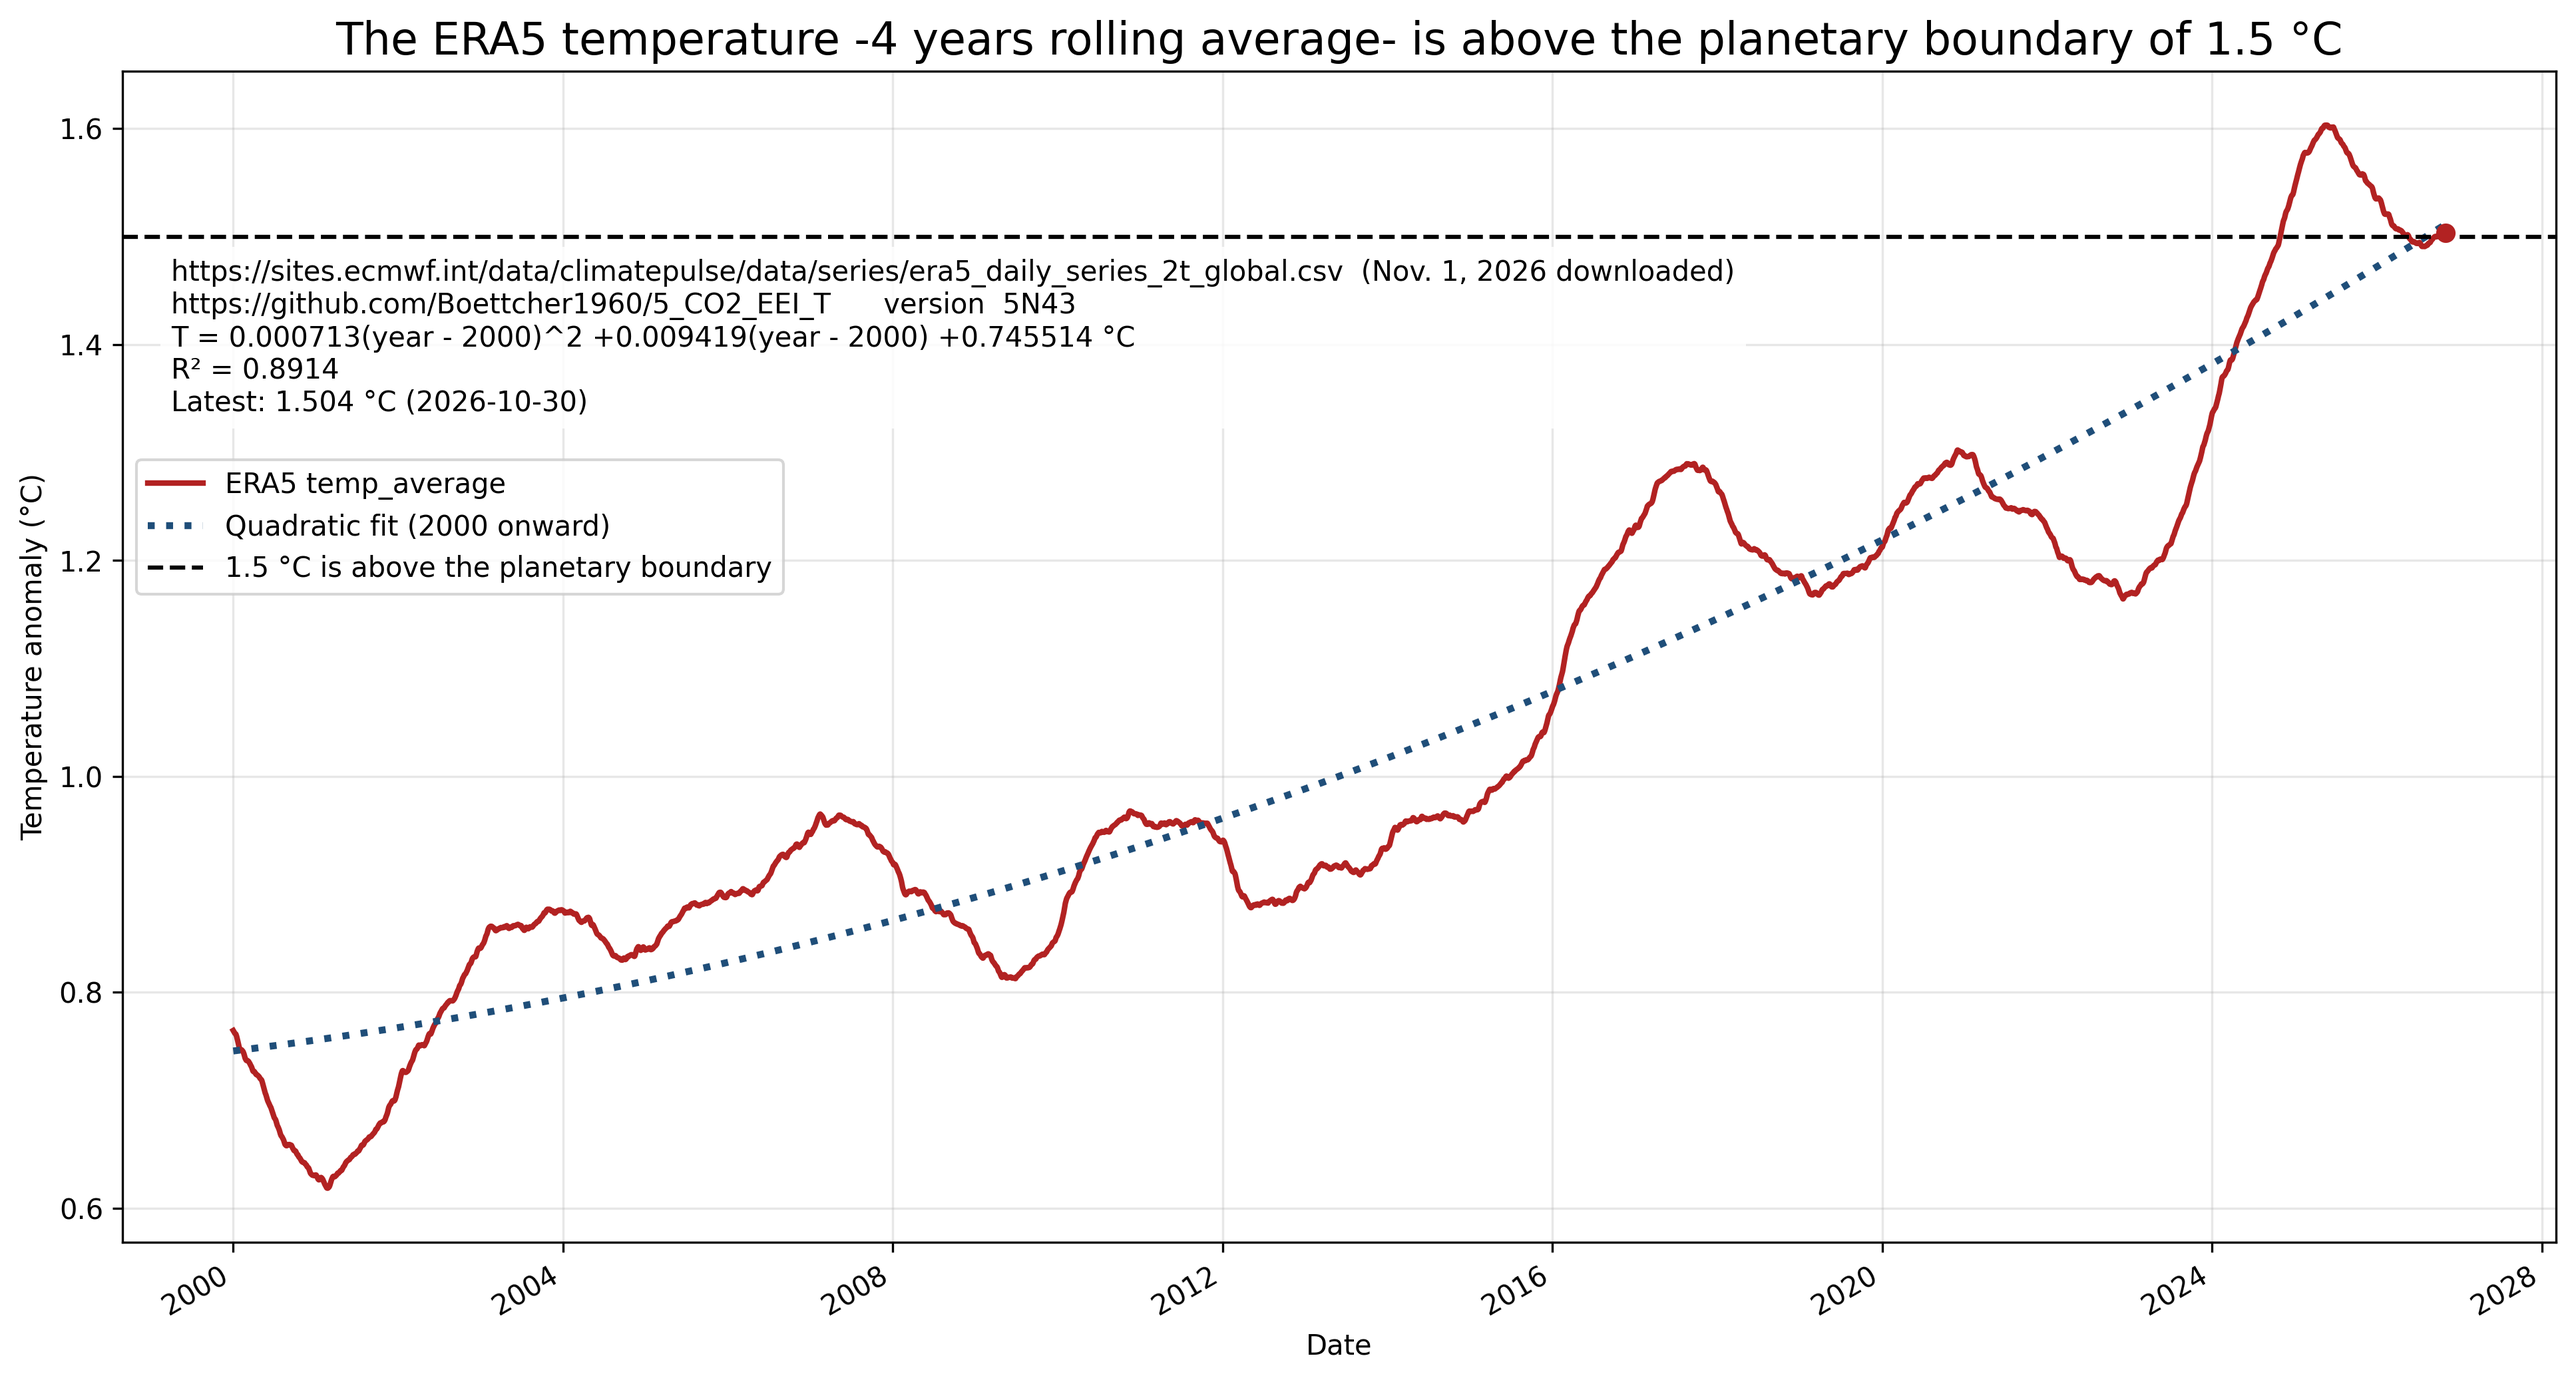
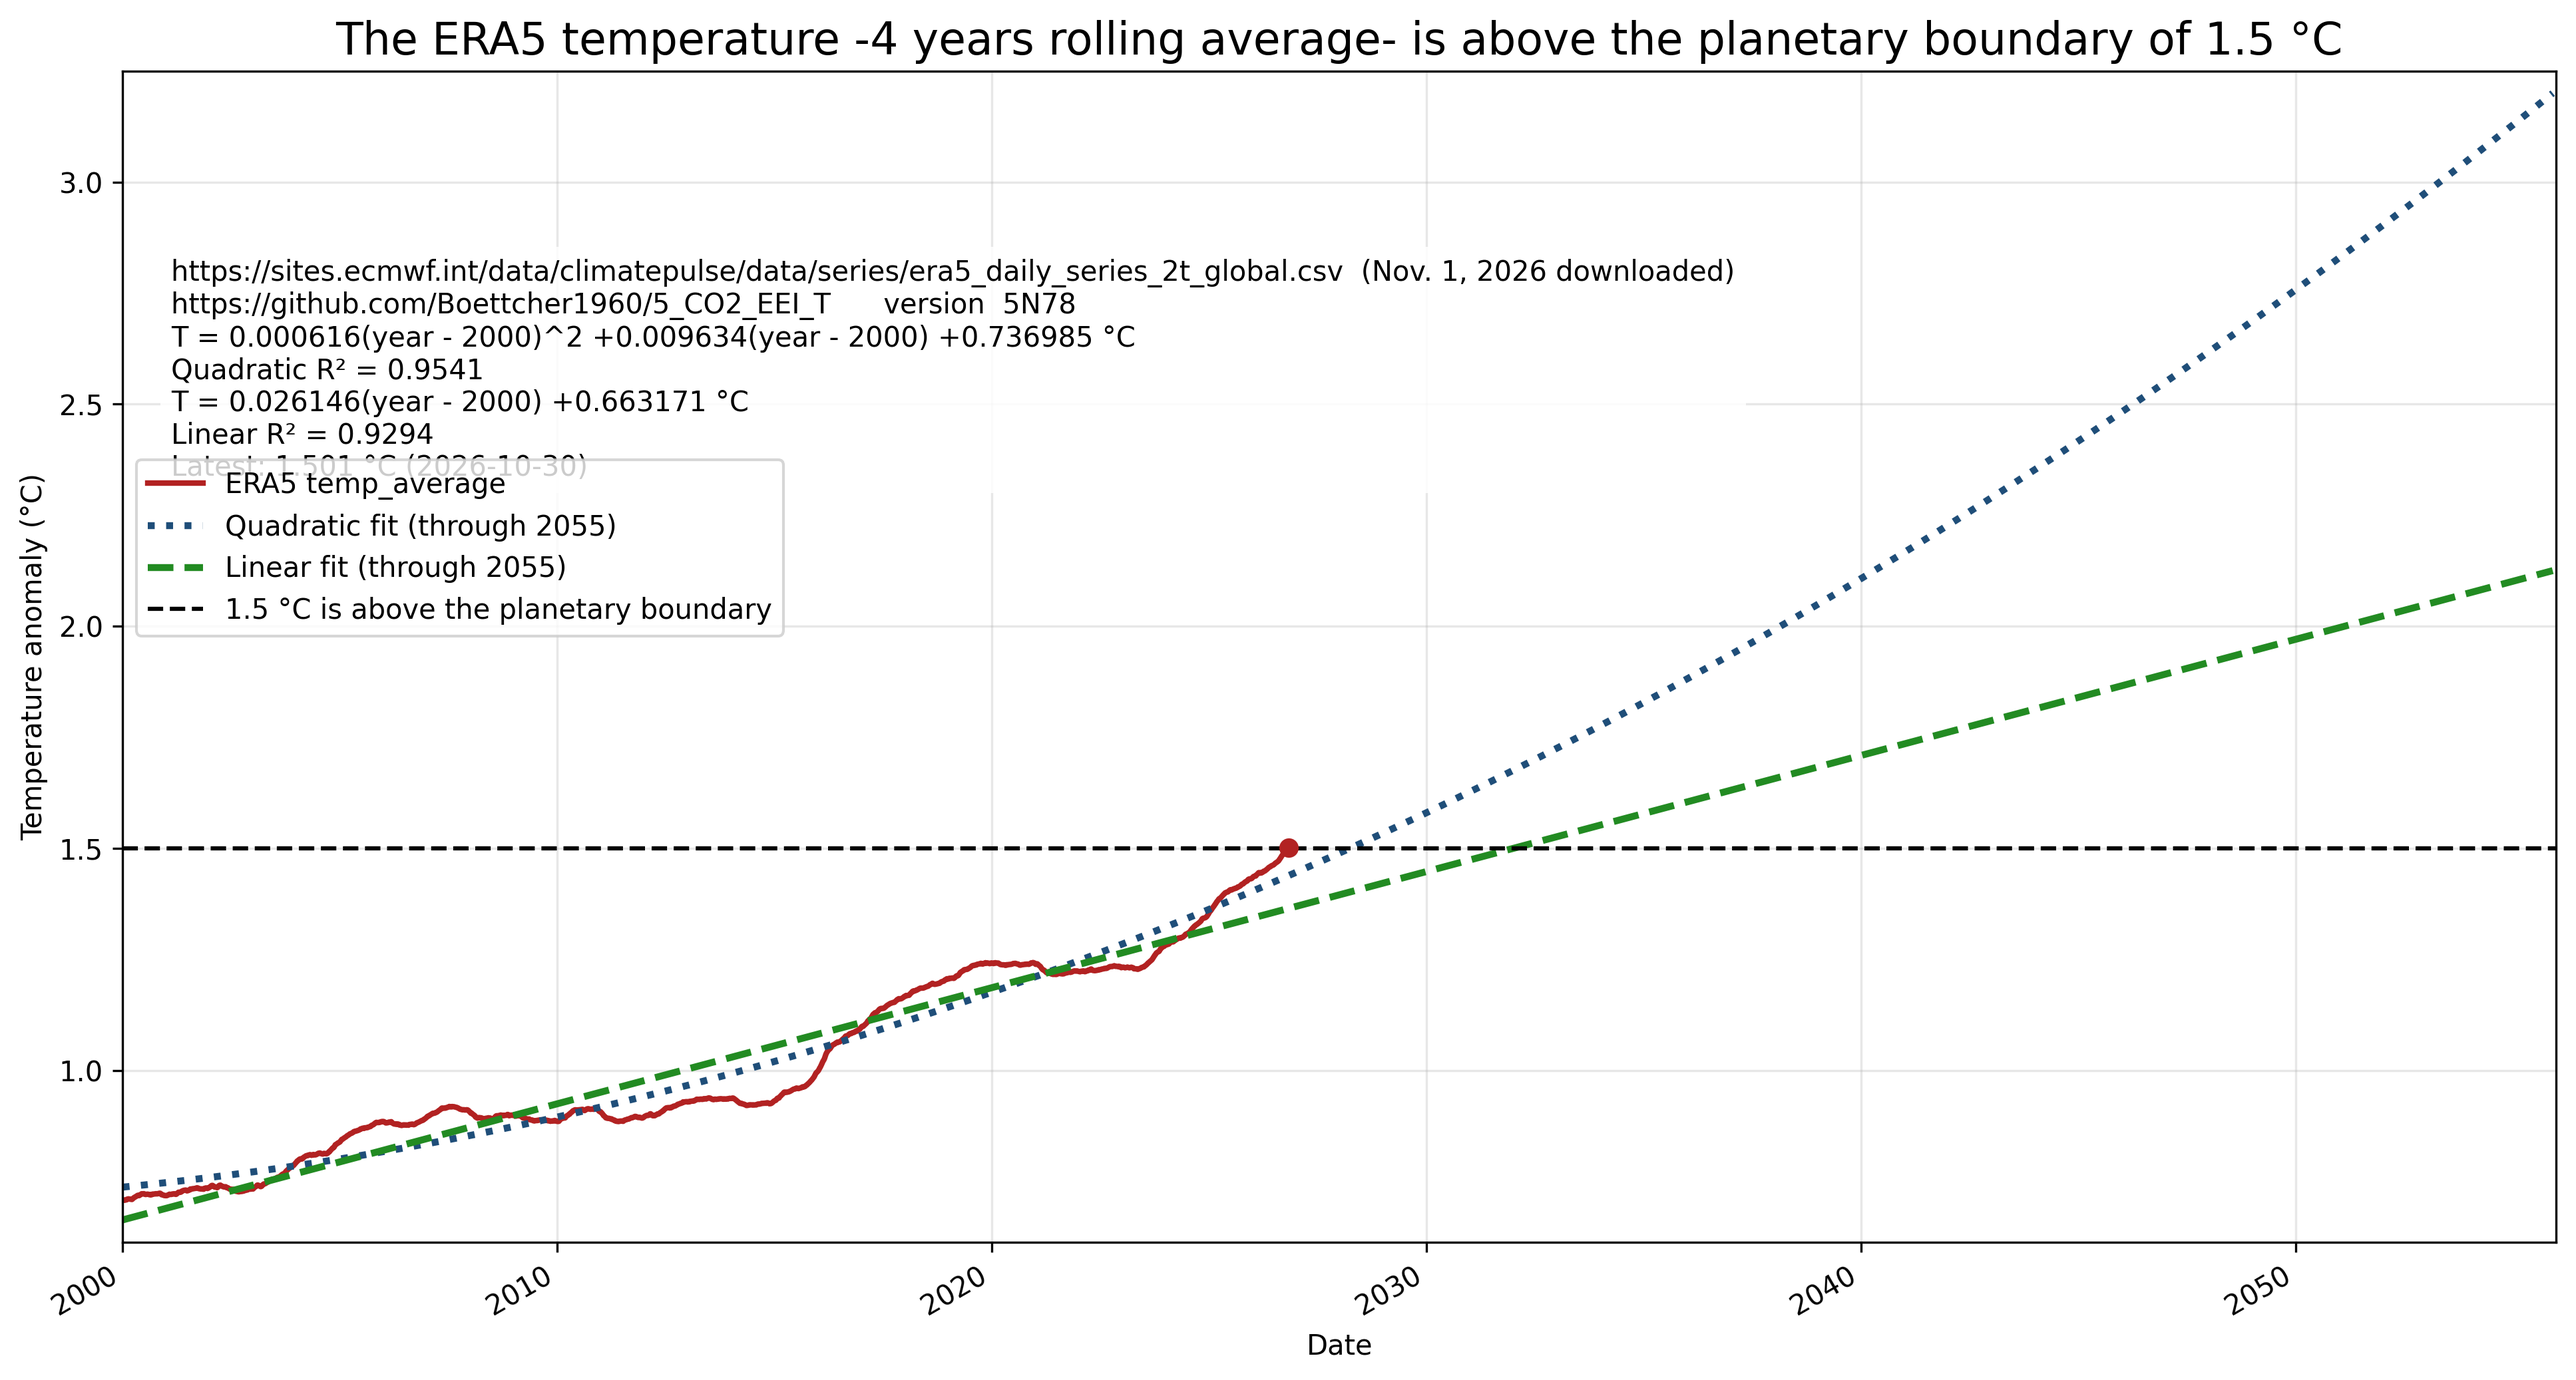
5N78" #fig_202_era5_temp_quadratic()

diff --git a/ceres.py b/ceres.py
@@ -505,7 +505,7 @@ def convert_ceres_to_csv(input_file, output_file):
 
 # 200.2 ceres.py line 422 fig_202_era5_temp_quadratic
 def fig_202_era5_temp_quadratic():
-    """Plot the ERA5 running mean and its post-2000 quadratic trend."""
+    """Plot ERA5 temperature averages with linear and quadratic trends to 2055."""
     # input_path = "work/_48_era5_in.csv"
     input_path = "work/_68_out.csv"
     output_path = "work/_48_era5_temp_average.png"
@@ -528,39 +528,54 @@ def fig_202_era5_temp_quadratic():
     data = data.dropna(subset=["date", "temp_average"]).sort_values("date")
     if data.empty:
         raise ValueError(f"{input_path} has no valid date/temp_average rows")
-    # 200.9 filter data for plotting and ensure enough points for quadratic fit
+    # 200.9 Filter data for fitting and plotting and ensure enough points for both fits.
     plot_data = data.loc[data["date"] >= "2000-01-01"].copy()
     if len(plot_data) < 3:
-        raise ValueError("At least three valid observations since 2000 are required for a quadratic fit")
+        raise ValueError("At least three valid observations since 2000 are required for the fits")
     # 200.10 calculate decimal year for quadratic fitting
     plot_data["decimal_year"] = (
         plot_data["date"].dt.year
         + (plot_data["date"].dt.dayofyear - 1)
         / np.where(plot_data["date"].dt.is_leap_year, 366, 365)
     )
-    # 200.11 perform quadratic fit and calculate R²
+    # 200.11 Fit quadratic and linear trends to the observed post-2000 data.
     x = plot_data["decimal_year"] - 2000
-    # 200.12 fit a quadratic polynomial to the data
     coefficients = np.polyfit(x, plot_data["temp_average"], 2)
-    # 200.13 evaluate the polynomial at the x values to get the trend
     trend = np.polyval(coefficients, x)
-    # 200.14 calculate R² to assess the fit quality
+    linear_coefficients = np.polyfit(x, plot_data["temp_average"], 1)
+    linear_trend = np.polyval(linear_coefficients, x)
+
+    # 200.12 Calculate R² for both fits using the same observed values.
     residual_sum_squares = np.sum((plot_data["temp_average"] - trend) ** 2)
-    # 200.15 calculate total sum of squares for R² calculation
+    linear_residual_sum_squares = np.sum(
+        (plot_data["temp_average"] - linear_trend) ** 2
+    )
     total_sum_squares = np.sum(
         (plot_data["temp_average"] - plot_data["temp_average"].mean()) ** 2
     )
-    # 200.16 calculate R² value
-    r_squared = 1 - residual_sum_squares / total_sum_squares
-    # 200.17 add the quadratic fit to the plot_data DataFrame for plotting
-    plot_data["quadratic_fit"] = trend
-    # 200.18 create the plot
+    if total_sum_squares > 0:
+        r_squared = 1 - residual_sum_squares / total_sum_squares
+        linear_r_squared = 1 - linear_residual_sum_squares / total_sum_squares
+    else:
+        r_squared = linear_r_squared = float("nan")
+
+    # 200.13 Evaluate both fitted curves monthly through the requested final year.
+    x_end = 2055
+    forecast_dates = pd.date_range("2000-01-01", f"{x_end}-12-01", freq="MS")
+    forecast_decimal_year = (
+        forecast_dates.year
+        + (forecast_dates.dayofyear - 1)
+        / np.where(forecast_dates.is_leap_year, 366, 365)
+    )
+    forecast_x = forecast_decimal_year - 2000
+    quadratic_forecast = np.polyval(coefficients, forecast_x)
+    linear_forecast = np.polyval(linear_coefficients, forecast_x)
+
+    # 200.14 Get the latest observation and define the reference benchmark.
     latest = plot_data.iloc[-1]
-    # 200.19 define the benchmark temperature for reference
     benchmark = 1.5
-    # 200.20 create the figure and axis for plotting
     fig, ax = plt.subplots(figsize=(13, 7))
-    # 200.21 plot the ERA5 temperature anomaly
+    # 200.15 Plot observed ERA5 values and both fitted trends.
     ax.plot(
         plot_data["date"],
         plot_data["temp_average"],
@@ -568,16 +583,23 @@ def fig_202_era5_temp_quadratic():
         linewidth=2,
         label="ERA5 temp_average",
     )
-    # 200.22 plot the quadratic fit since 2000
     ax.plot(
-        plot_data["date"],
-        plot_data["quadratic_fit"],
+        forecast_dates,
+        quadratic_forecast,
         color="#1f4e79",
         linestyle=":",
         linewidth=2.5,
-        label="Quadratic fit (2000 onward)",
+        label=f"Quadratic fit (through {x_end})",
     )
-    # 200.23 add a horizontal line for the 1.5 °C benchmark
+    ax.plot(
+        forecast_dates,
+        linear_forecast,
+        color="#228B22",
+        linestyle="--",
+        linewidth=2.5,
+        label=f"Linear fit (through {x_end})",
+    )
+    # 200.16 Add the 1.5 °C benchmark and mark the latest observation.
     ax.axhline(
         benchmark,
         color="black",
@@ -585,13 +607,9 @@ def fig_202_era5_temp_quadratic():
         linewidth=1.5,
         label="1.5 °C is above the planetary boundary",
     )
-    # 200.24 highlight the latest data point on the plot
     ax.scatter(latest["date"], latest["temp_average"], color="#b22222", zorder=3)
-    # 200.25 add text annotations for the quadratic equation, R², and latest temperature
 
-    text_below = ( f"https://github.com/Boettcher1960/5_CO2_EEI_T"
-                   f"    version {v} ")
-
+    # 200.17 Display both fit equations and their R² values with the latest observation.
     ax.text(
         0.02, 0.84,
         (
@@ -599,44 +617,45 @@ def fig_202_era5_temp_quadratic():
             f"https://github.com/Boettcher1960/5_CO2_EEI_T      version  {v} \n"
             f"T = {coefficients[0]:.6f}(year - 2000)^2 "
             f"{coefficients[1]:+.6f}(year - 2000) {coefficients[2]:+.6f} °C\n"
-            f"R² = {r_squared:.4f}\n"
+            f"Quadratic R² = {r_squared:.4f}\n"
+            f"T = {linear_coefficients[0]:.6f}(year - 2000) "
+            f"{linear_coefficients[1]:+.6f} °C\n"
+            f"Linear R² = {linear_r_squared:.4f}\n"
             f"Latest: {latest['temp_average']:.3f} °C ({latest['date']:%Y-%m-%d})"
         ),
         transform=ax.transAxes,
         va="top",
         bbox={"facecolor": "white", "alpha": 0.85, "edgecolor": "none"},
     )
-    # 200.26 set the title, labels, limits, grid, and legend for the plot
+    # 200.18 Set axis labels, include projected values in y-limits, and end x-axis in 2055.
     ax.set_title("The ERA5 temperature -4 years rolling average- is above the planetary boundary of 1.5 °C", fontsize=16)
     ax.set_xlabel("Date")
     ax.set_ylabel("Temperature anomaly (°C)")
-    # 200.27 set y-axis limits to include the benchmark and data range with some padding
     ax.set_ylim(
-        min(float(plot_data["temp_average"].min()), benchmark) - 0.05,
-        max(float(plot_data["temp_average"].max()), benchmark) + 0.05,
+        min(float(plot_data["temp_average"].min()), benchmark, float(quadratic_forecast.min()), float(linear_forecast.min())) - 0.05,
+        max(float(plot_data["temp_average"].max()), benchmark, float(quadratic_forecast.max()), float(linear_forecast.max())) + 0.05,
     )
-    # 200.28 set x-axis limits to the range of the data
+    ax.set_xlim(plot_data["date"].min(), pd.Timestamp(year=x_end, month=12, day=31))
     ax.grid(True, alpha=0.3)
-    # 200.29 add a legend in the upper left corner with a specific bounding box
     ax.legend(loc="upper left", bbox_to_anchor=(0, 0.68))
-    # 200.30 format the x-axis dates for better readability
     fig.autofmt_xdate()
-    # 200.31 adjust layout and save the figure to the specified output path
     fig.tight_layout()
-    # 200.32 save the figure with high resolution and tight bounding box
     fig.savefig(output_path, dpi=300, bbox_inches="tight")
-    # 200.33 print the quadratic fit equation and R² value to the console
+    # 200.19 Print both fitted equations and R² values to the console.
     print(
         "ceres540: Quadratic fit since 2000: "
         f"T = {coefficients[0]:.9f}(year - 2000)^2 "
         f"{coefficients[1]:+.9f}(year - 2000) {coefficients[2]:+.9f}; "
         f"R² = {r_squared:.6f}"
     )
-    # 200.34 print the path where the visualization was saved
+    print(
+        "ceres: Linear fit since 2000: "
+        f"T = {linear_coefficients[0]:.9f}(year - 2000) "
+        f"{linear_coefficients[1]:+.9f}; "
+        f"R² = {linear_r_squared:.6f}"
+    )
     print(f"ceres546: Saved ERA5 temperature visualization to {output_path}")
-    # 200.35 show the plot and close the figure to free memory
     plt.show()
-    # 200.36 close the figure to free up memory
     plt.close(fig)
 
 # 404.10 make a separate new figure404 for
@@ -1095,7 +1114,6 @@ def ceres_running_average(input_csv,
         print(f"ceres936: {window_months}-month running average saved to {output_csv} ")
     return df_output
     # end part 62.c  CERES.csv (perform averaging)
-
 
 
 

diff --git a/config.py b/config.py
@@ -12,10 +12,10 @@
 # 8.3 print the left y axis 
 # line 2 defines the left Y axis. example
 run_10_png = 0 # 2 , 4, 5, 6 , 11 run 5 figures : 0 = no automatic
-figure100 = 5 #  0 means create no old figure 1= make old figuure
+figure100 = 0 #  0 means create no old figure 1= make old figuure
                 # substack #28 uses 102 , 104 , 105 , 106 , 107 , 110 Global Warming EEI sets the World on Fire #28 Published 20. Nov. at 21:18
                 #  0 means create no old figure 1= make old figuure
-figure202 = 0 # 2=new figure with era5 temperature and quadratic curve 209
+figure202 = 2 # 2=new figure with era5 temperature and quadratic curve 209
 figure303 = 0 # 3 , 4 
               # for figure303 = 3 keep the x axis logarithmic and plot in Rovang_figure_1.png
               # for figure303 = 4 make linear x axis and plot in Rovang_figure_2.png

diff --git a/models.py b/models.py
@@ -1171,5 +1171,12 @@ ceres 400
   393:        df67c = create67_running_average( 'work/_CERES_raw.csv', 
   394                                           'work/_CERES_ASR.csv',                            
 
-   
+update
+fig_202_era5_temp_quadratic()
+with longer x axis up to  x_end = 2055  
+and print and plot a linear fit curve
+  
+
+
+
 """

diff --git a/main.py b/main.py
@@ -1,6 +1,5 @@
 # main.py
-v = "5N77" # play68_ERA          = 1461
-#
+v = "5N78" #fig_202_era5_temp_quadratic()
 #
 # https://github.com/Boettcher1960/5_CO2_EEI_T
 # ocean stratification https://bsky.app/profile/thomas-boettcher.bsky.social/post/3mj7zx7fzsc26
